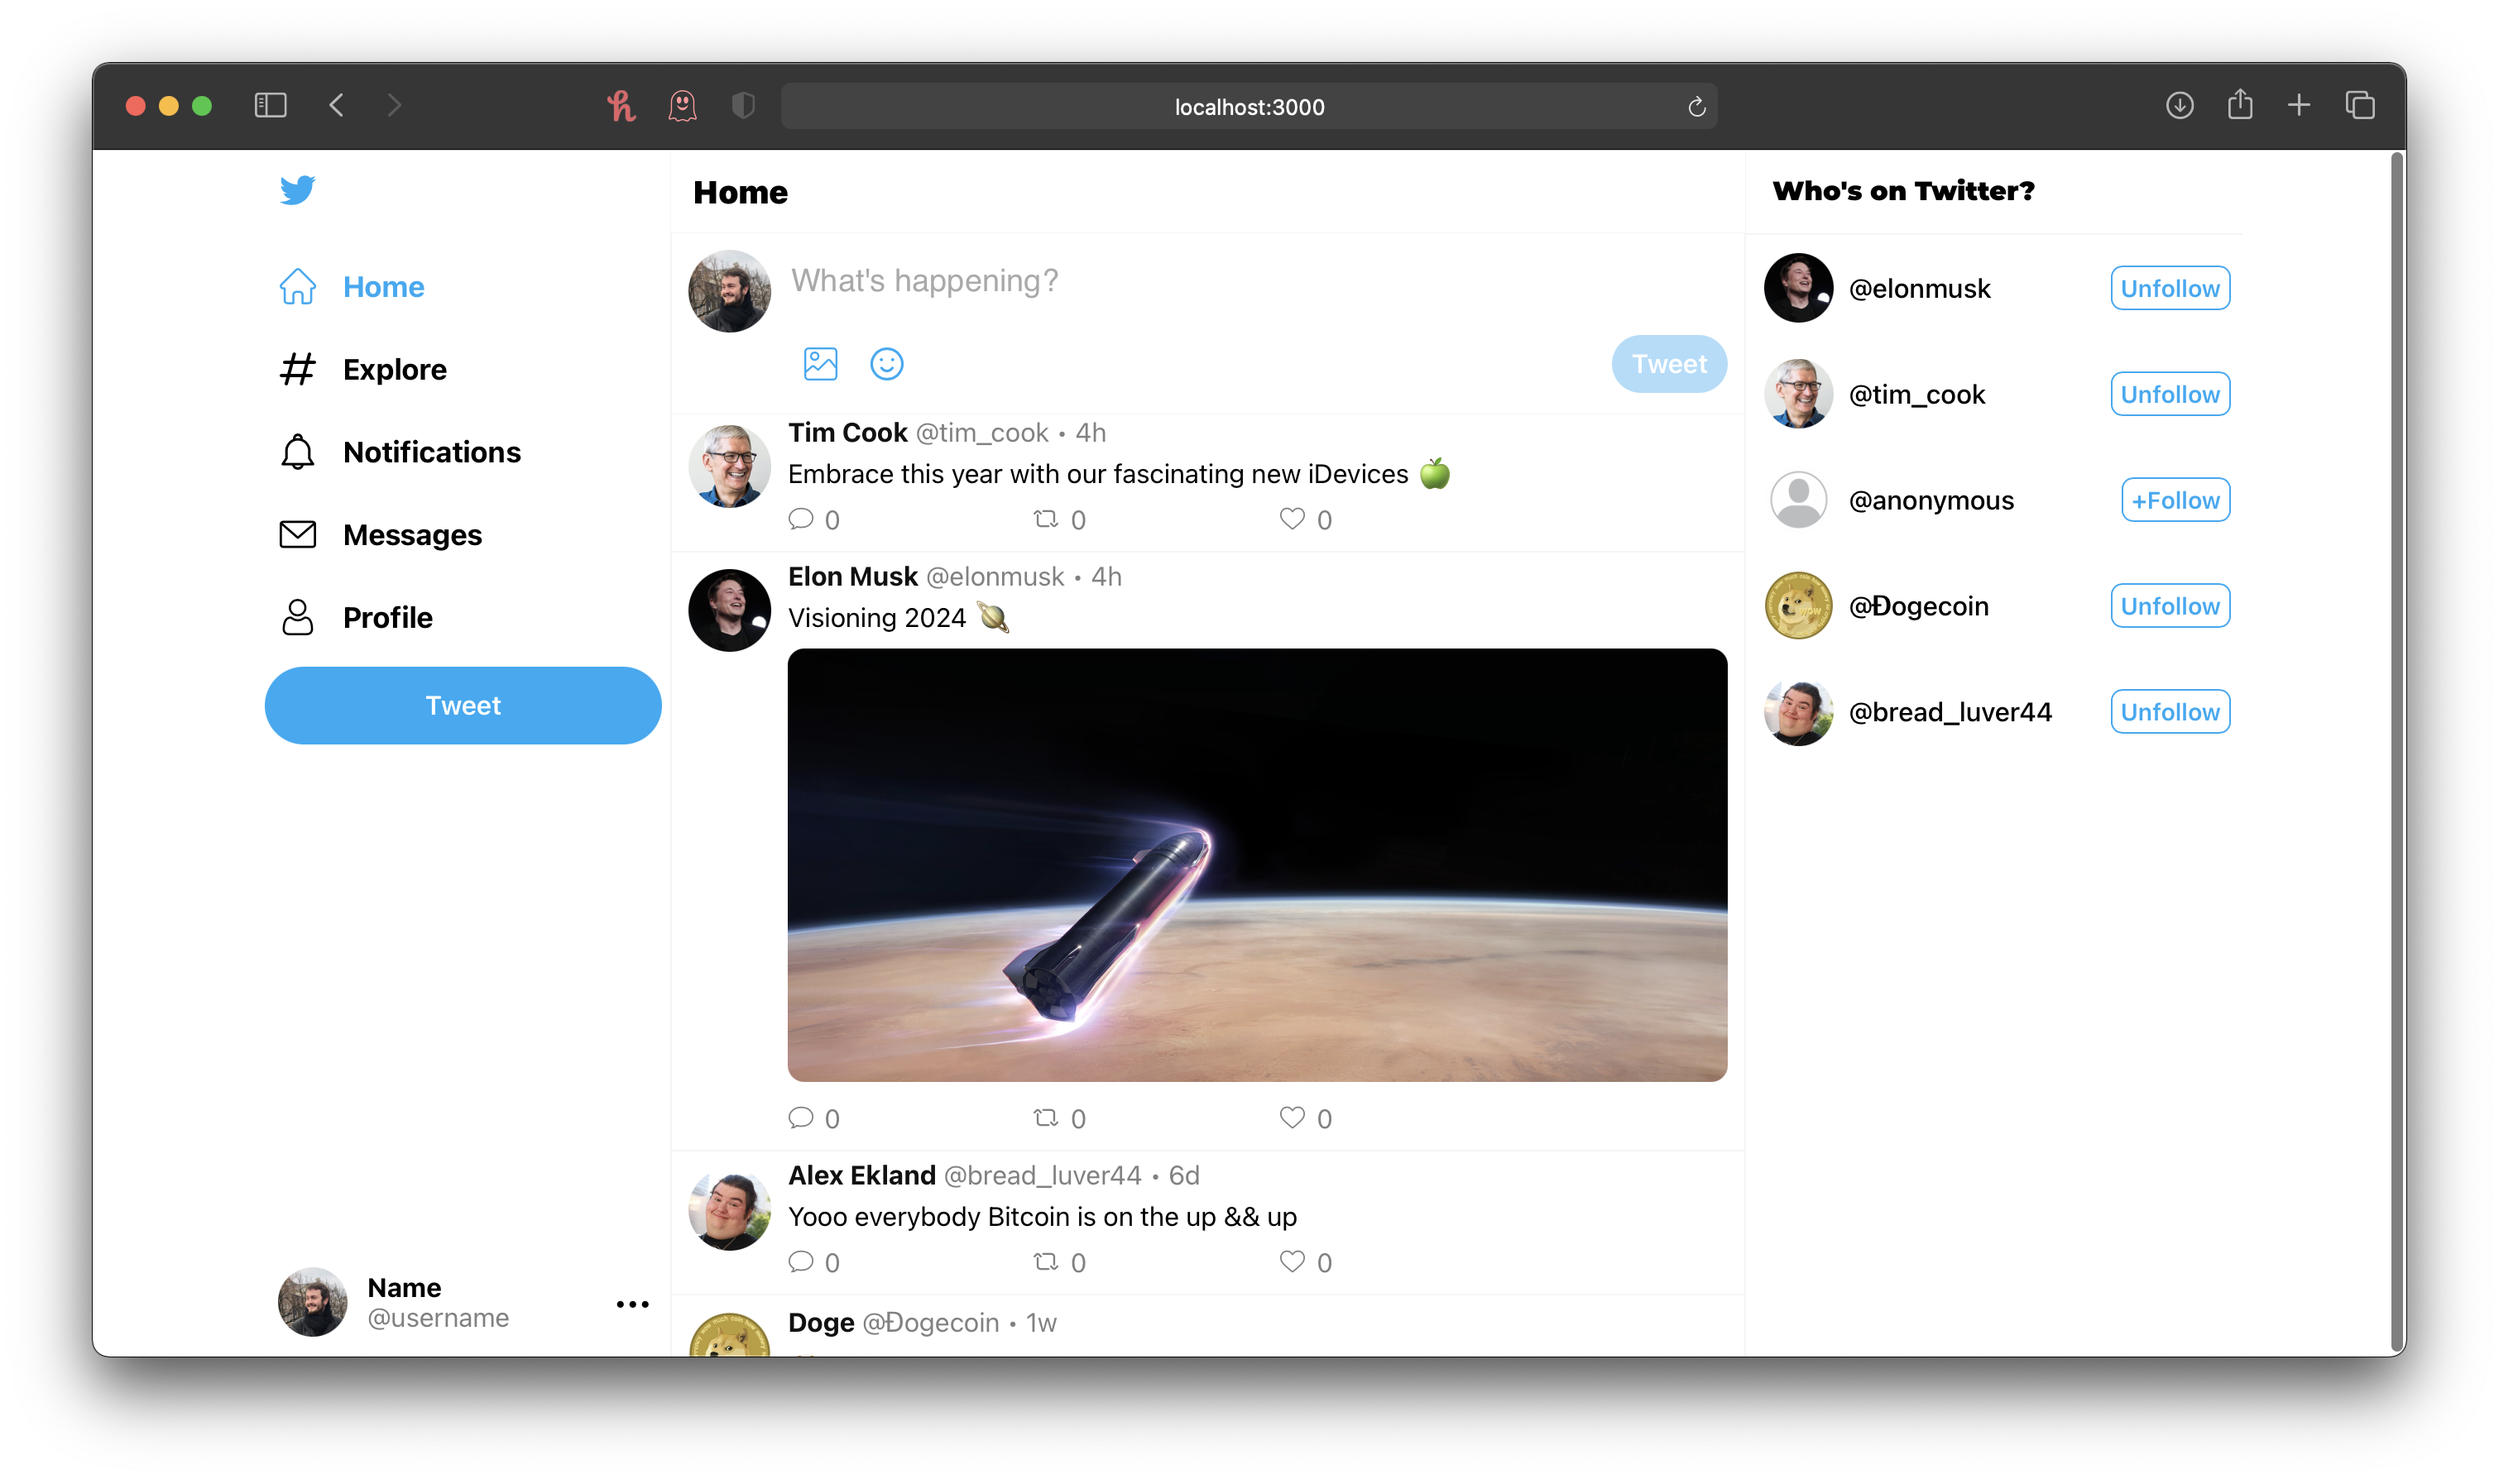
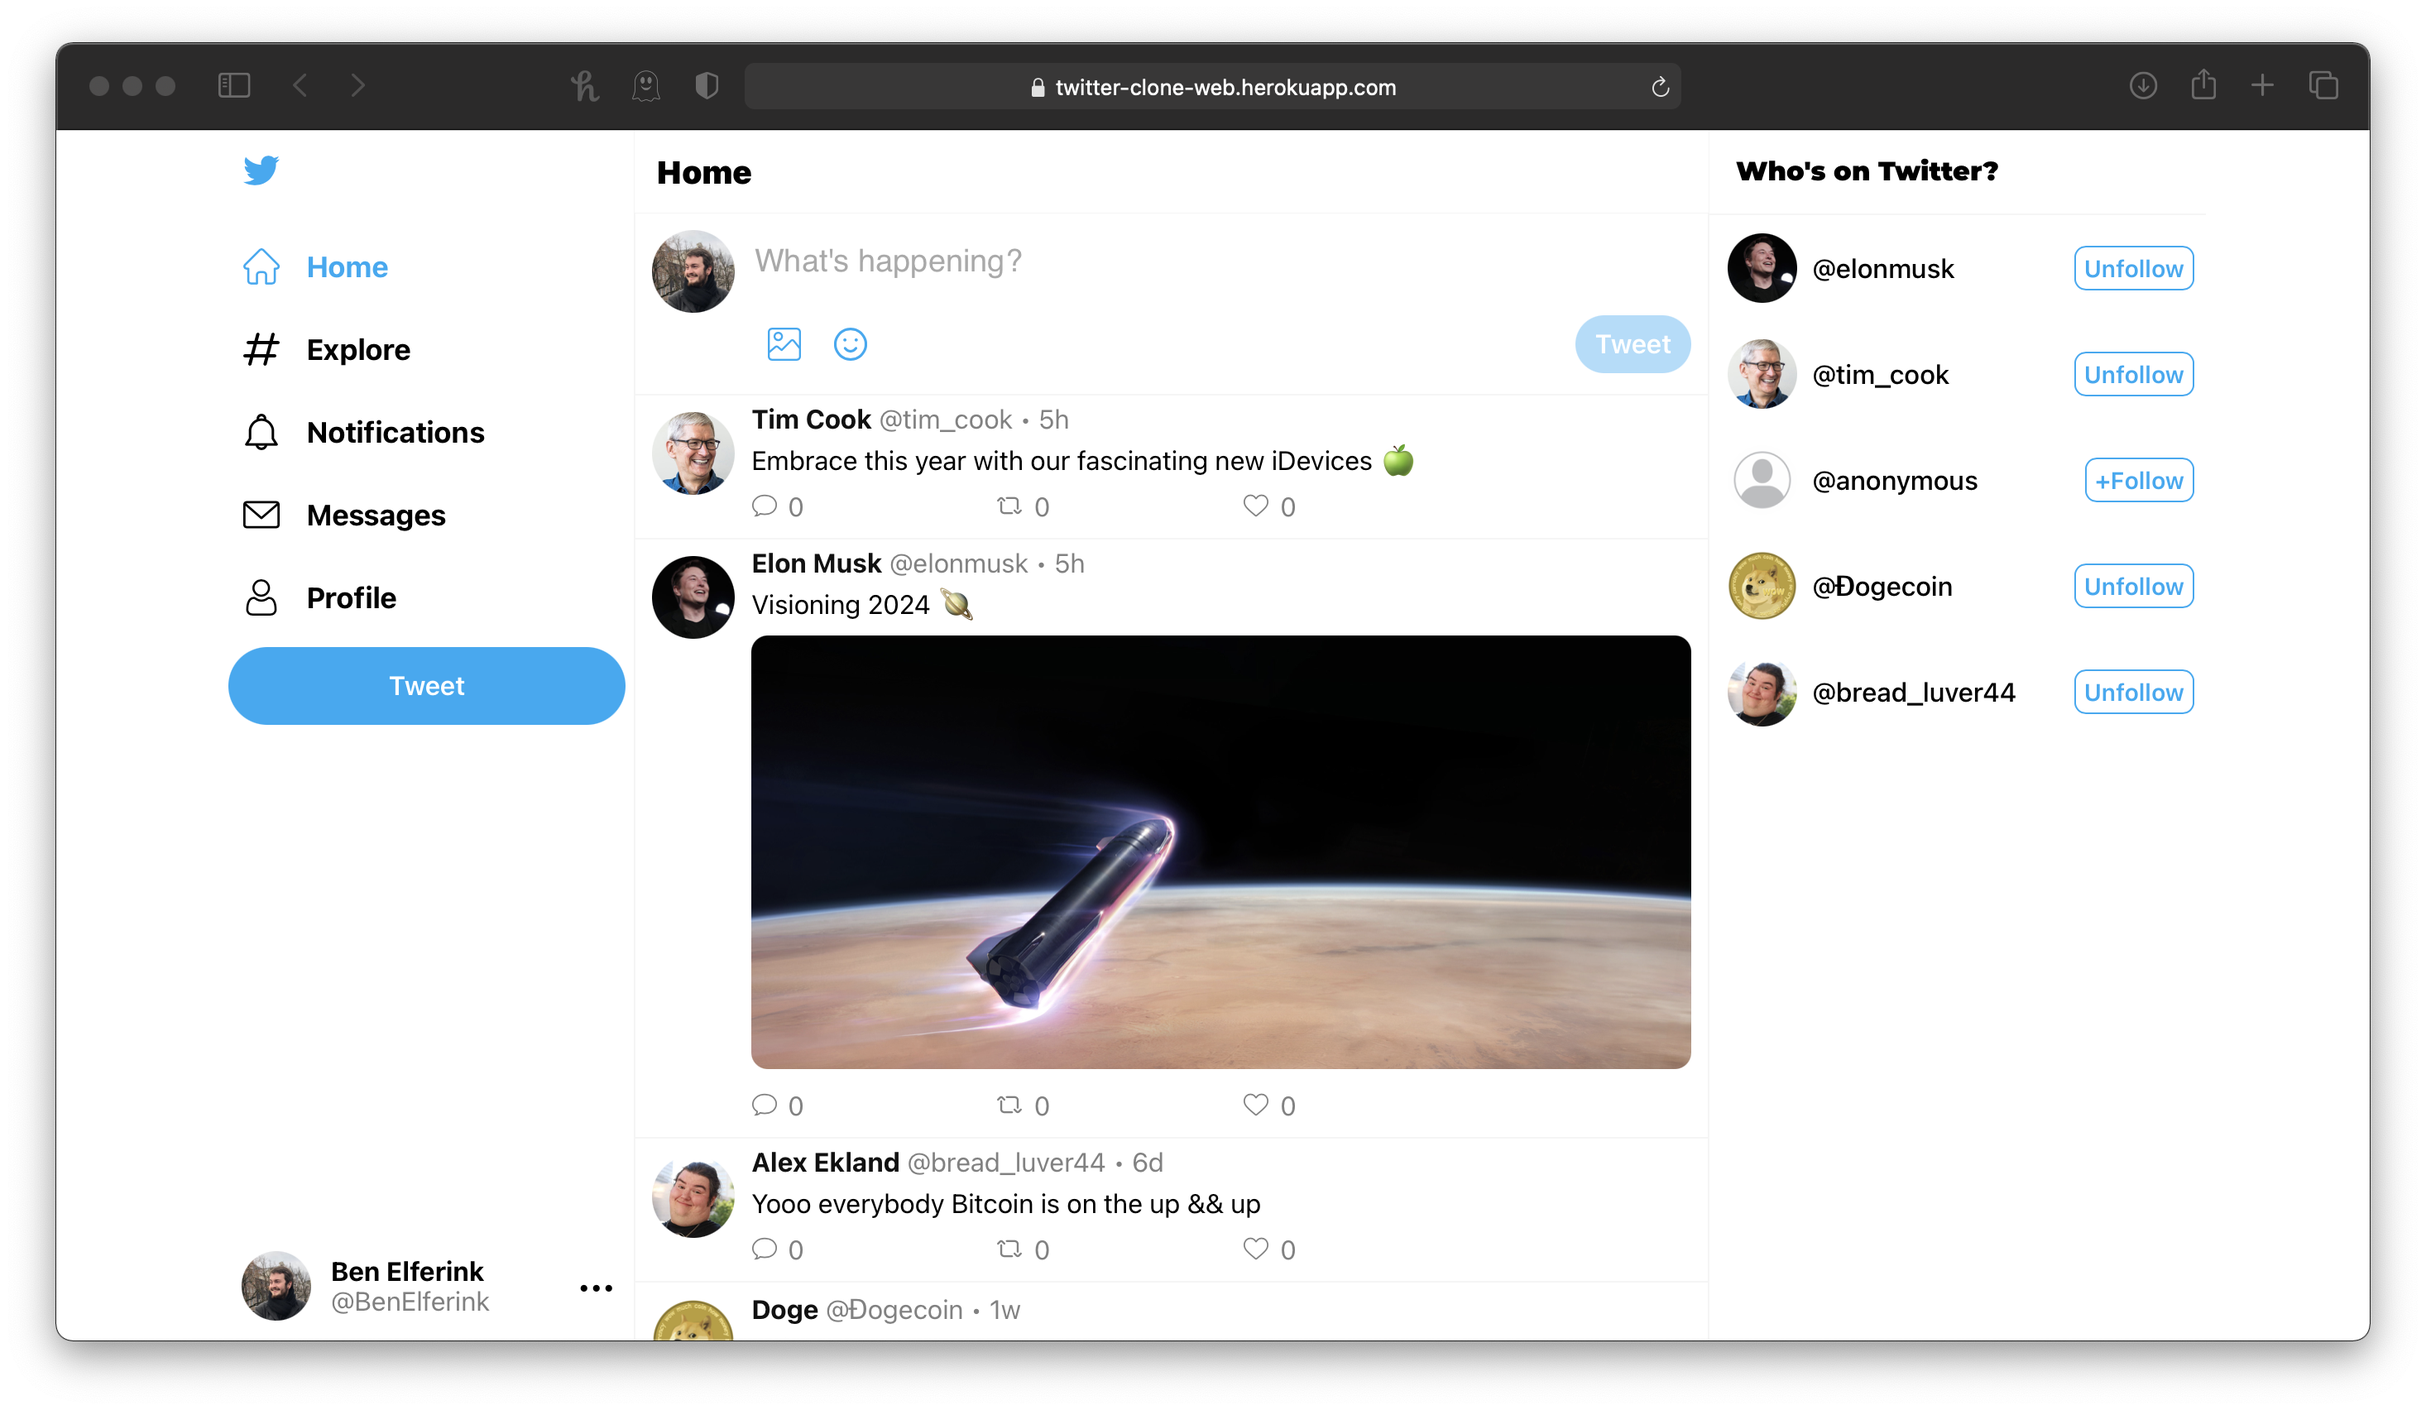
fix user chip

diff --git a/client/src/components/Navbar/index.js b/client/src/components/Navbar/index.js
@@ -10,7 +10,7 @@ import TwitterIcon from '../../icons/Twitter';
 import NewTweetIcon from '../../icons/NewTweet';
 import styles from './index.module.css';
 import { logout } from '../../actions/userActions';
-import { useDispatch } from 'react-redux';
+import { useDispatch, useSelector } from 'react-redux';
 
 export default function Navbar({ navState, openTweetModal }) {
   const [view, setView] = useState(window.innerWidth);
@@ -55,6 +55,7 @@ function NavItem({ title, Icon, navState }) {
 }
 
 function UserChip() {
+  const { name, username } = useSelector((state) => state.user);
   const dispatch = useDispatch();
 
   return (
@@ -69,8 +70,8 @@ function UserChip() {
       }}>
       <ProfilePicture isLoggedUser={true} size='42px' />
       <div>
-        <span>Name</span>
-        <p>@username</p>
+        <span>{name}</span>
+        <p>@{username}</p>
       </div>
       <span>•••</span>
     </div>
